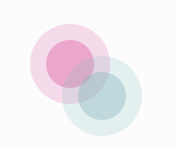
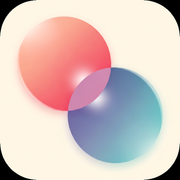
Add native push notifications and deep linking capabilities
Implement native push notification registration and handling for iOS/Android via Capacitor, alongside deep linking configuration for Clerk authentication and invite links.

Replit-Commit-Author: Agent
Replit-Commit-Session-Id: f5ed3eb9-af06-40d8-8ca2-c9c312aa1837
Replit-Commit-Checkpoint-Type: full_checkpoint
Replit-Commit-Event-Id: b6dd6502-5a97-4bbd-8ea1-64d2a8690d60
Replit-Commit-Screenshot-Url: https://storage.googleapis.com/screenshot-production-us-central1/cb549dcf-6132-430c-bd0d-0a8318e29405/f5ed3eb9-af06-40d8-8ca2-c9c312aa1837/G6ctnNT
Replit-Helium-Checkpoint-Created: true

diff --git a/artifacts/twintrack/src/hooks/usePushNotifications.ts b/artifacts/twintrack/src/hooks/usePushNotifications.ts
@@ -1,9 +1,45 @@
 import { useState, useEffect, useCallback } from "react";
 import { useUser } from "@clerk/react";
+import { isNativePlatform } from "@/lib/native";
 
 export type PushPermission = "default" | "granted" | "denied" | "unsupported";
 
 const BASE_URL = (import.meta.env.BASE_URL ?? "/").replace(/\/$/, "");
+
+// ── Native (Capacitor) push ───────────────────────────────────────────────
+
+async function loadCapacitorPush() {
+  try {
+    const { PushNotifications } = await import("@capacitor/push-notifications");
+    return PushNotifications;
+  } catch {
+    return null;
+  }
+}
+
+// ── Web push helpers ──────────────────────────────────────────────────────
+
+function urlBase64ToUint8Array(base64String: string): Uint8Array {
+  const padding = "=".repeat((4 - (base64String.length % 4)) % 4);
+  const base64 = (base64String + padding).replace(/-/g, "+").replace(/_/g, "/");
+  const rawData = window.atob(base64);
+  const outputArray = new Uint8Array(rawData.length);
+  for (let i = 0; i < rawData.length; ++i) {
+    outputArray[i] = rawData.charCodeAt(i);
+  }
+  return outputArray;
+}
+
+function arrayBufferToBase64(buffer: ArrayBuffer): string {
+  const bytes = new Uint8Array(buffer);
+  let binary = "";
+  for (let i = 0; i < bytes.byteLength; i++) {
+    binary += String.fromCharCode(bytes[i]);
+  }
+  return window.btoa(binary);
+}
+
+// ── Hook ─────────────────────────────────────────────────────────────────
 
 export function usePushNotifications() {
   const { user } = useUser();
@@ -12,12 +48,25 @@ export function usePushNotifications() {
   const [loading, setLoading] = useState(false);
 
   useEffect(() => {
+    if (isNativePlatform()) {
+      // On native, check current Capacitor push permission state
+      loadCapacitorPush().then((Push) => {
+        if (!Push) { setPermission("unsupported"); return; }
+        Push.checkPermissions().then((status) => {
+          if (status.receive === "granted") setPermission("granted");
+          else if (status.receive === "denied") setPermission("denied");
+          else setPermission("default");
+        }).catch(() => setPermission("unsupported"));
+      });
+      return;
+    }
+
+    // Web path
     if (!("Notification" in window) || !("serviceWorker" in navigator)) {
       setPermission("unsupported");
       return;
     }
     setPermission(Notification.permission as PushPermission);
-
     navigator.serviceWorker.ready.then((reg) => {
       reg.pushManager.getSubscription().then((sub) => {
         setSubscription(sub);
@@ -26,9 +75,46 @@ export function usePushNotifications() {
   }, []);
 
   const subscribe = useCallback(async (): Promise<boolean> => {
-    if (!user?.id || !("serviceWorker" in navigator)) return false;
+    if (!user?.id) return false;
     setLoading(true);
+
     try {
+      // ── Native path ──────────────────────────────────────────────────
+      if (isNativePlatform()) {
+        const Push = await loadCapacitorPush();
+        if (!Push) return false;
+
+        const { receive } = await Push.requestPermissions();
+        if (receive !== "granted") {
+          setPermission("denied");
+          return false;
+        }
+        setPermission("granted");
+
+        // Register for push — the FCM/APNs token arrives via 'registration' listener
+        await Push.register();
+
+        // Listen for FCM/APNs token and register it server-side
+        const listener = await Push.addListener("registration", async (token) => {
+          await fetch(`${BASE_URL}/api/push/native-subscribe`, {
+            method: "POST",
+            headers: { "Content-Type": "application/json" },
+            body: JSON.stringify({
+              token: token.value,
+              userId: user.id,
+              platform: (window as unknown as { Capacitor?: { getPlatform?: () => string } })
+                .Capacitor?.getPlatform?.() ?? "unknown",
+            }),
+          }).catch(() => {});
+          listener.remove();
+        });
+
+        return true;
+      }
+
+      // ── Web path ─────────────────────────────────────────────────────
+      if (!("serviceWorker" in navigator)) return false;
+
       const perm = await Notification.requestPermission();
       setPermission(perm as PushPermission);
       if (perm !== "granted") return false;
@@ -65,9 +151,15 @@ export function usePushNotifications() {
   }, [user?.id]);
 
   const unsubscribe = useCallback(async (): Promise<void> => {
-    if (!subscription) return;
     setLoading(true);
     try {
+      if (isNativePlatform()) {
+        // For native, there's no simple "unsubscribe" — would need to deregister token server-side
+        // For now, just update UI state
+        setPermission("default");
+        return;
+      }
+      if (!subscription) return;
       await fetch(`${BASE_URL}/api/push/unsubscribe`, {
         method: "POST",
         headers: { "Content-Type": "application/json" },
@@ -85,24 +177,4 @@ export function usePushNotifications() {
   }, []);
 
   return { permission, subscription, loading, subscribe, unsubscribe, sendTest };
-}
-
-function urlBase64ToUint8Array(base64String: string): Uint8Array {
-  const padding = "=".repeat((4 - (base64String.length % 4)) % 4);
-  const base64 = (base64String + padding).replace(/-/g, "+").replace(/_/g, "/");
-  const rawData = window.atob(base64);
-  const outputArray = new Uint8Array(rawData.length);
-  for (let i = 0; i < rawData.length; ++i) {
-    outputArray[i] = rawData.charCodeAt(i);
-  }
-  return outputArray;
-}
-
-function arrayBufferToBase64(buffer: ArrayBuffer): string {
-  const bytes = new Uint8Array(buffer);
-  let binary = "";
-  for (let i = 0; i < bytes.byteLength; i++) {
-    binary += String.fromCharCode(bytes[i]);
-  }
-  return window.btoa(binary);
 }

diff --git a/artifacts/twintrack/src/App.tsx b/artifacts/twintrack/src/App.tsx
@@ -4,6 +4,7 @@ import { ClerkProvider, SignIn, SignUp, Show, useClerk, useUser } from "@clerk/r
 import { publishableKeyFromHost } from "@clerk/react/internal";
 import { shadcn } from "@clerk/themes";
 import { Switch, Route, useLocation, Router as WouterRouter, Redirect } from "wouter";
+import { isNativePlatform } from "@/lib/native";
 import { QueryClient, QueryClientProvider, useQueryClient } from "@tanstack/react-query";
 import { Toaster } from "@/components/ui/toaster";
 import { useToast } from "@/hooks/use-toast";
@@ -161,6 +162,45 @@ function SwUpdateNotifier() {
       })
       .catch(() => {/* non-fatal */});
   }, [promptReload]);
+
+  return null;
+}
+
+/**
+ * Handles Capacitor Universal Links / App Links (deep links).
+ * When the user taps a link like https://yourdomain.com/invite?token=xxx,
+ * iOS/Android opens the app and fires `appUrlOpen` instead of opening Safari.
+ * We parse the path and navigate to the right route in-app.
+ */
+function DeepLinkHandler() {
+  const [, setLocation] = useLocation();
+
+  useEffect(() => {
+    if (!isNativePlatform()) return;
+
+    let cleanup: (() => void) | null = null;
+
+    import("@capacitor/app").then(({ App: CapApp }) => {
+      CapApp.addListener("appUrlOpen", (event) => {
+        try {
+          const url = new URL(event.url);
+          // Strip the base path if present, then navigate to the path + search
+          const path = url.pathname + url.search;
+          const stripped = basePath && path.startsWith(basePath)
+            ? path.slice(basePath.length) || "/"
+            : path;
+          setLocation(stripped);
+          posthog?.capture("deep_link_opened", { path: stripped });
+        } catch {
+          // Malformed URL — ignore
+        }
+      }).then((listener) => {
+        cleanup = () => listener.remove();
+      }).catch(() => {});
+    }).catch(() => {});
+
+    return () => { cleanup?.(); };
+  }, [setLocation]);
 
   return null;
 }
@@ -425,6 +465,7 @@ function ClerkProviderWithRoutes() {
         <PostHogIdentifier />
         <TooltipProvider>
           <SwUpdateNotifier />
+          <DeepLinkHandler />
           <HeartbeatReporter />
           <PushPermissionPrompt />
           <AppExperienceLayer />

diff --git a/artifacts/twintrack/src/components/PushPermissionPrompt.tsx b/artifacts/twintrack/src/components/PushPermissionPrompt.tsx
@@ -1,5 +1,6 @@
 import { useState, useEffect } from "react";
 import { Bell, X } from "lucide-react";
+import { isNativePlatform } from "@/lib/native";
 
 const STORAGE_KEY = "tt_push_asked";
 
@@ -11,12 +12,18 @@ export default function PushPermissionPrompt({ onGrant }: Props) {
   const [visible, setVisible] = useState(false);
 
   useEffect(() => {
-    // Only show if: notifications API exists, not yet granted/denied, not already asked
-    if (!("Notification" in window)) return;
-    if (Notification.permission !== "default") return;
     if (localStorage.getItem(STORAGE_KEY)) return;
 
-    // Show after 30s so user has engaged with the app first
+    if (isNativePlatform()) {
+      // On native, show the prompt after 30s — permission is requested via Capacitor
+      const t = setTimeout(() => setVisible(true), 30000);
+      return () => clearTimeout(t);
+    }
+
+    // Web: only show if Notification API is available and not yet decided
+    if (!("Notification" in window)) return;
+    if (Notification.permission !== "default") return;
+
     const t = setTimeout(() => setVisible(true), 30000);
     return () => clearTimeout(t);
   }, []);
@@ -24,10 +31,20 @@ export default function PushPermissionPrompt({ onGrant }: Props) {
   async function handleAllow() {
     localStorage.setItem(STORAGE_KEY, "1");
     setVisible(false);
+
     try {
-      const result = await Notification.requestPermission();
-      if (result === "granted") {
-        onGrant?.();
+      if (isNativePlatform()) {
+        const { PushNotifications } = await import("@capacitor/push-notifications");
+        const { receive } = await PushNotifications.requestPermissions();
+        if (receive === "granted") {
+          await PushNotifications.register();
+          onGrant?.();
+        }
+      } else {
+        const result = await Notification.requestPermission();
+        if (result === "granted") {
+          onGrant?.();
+        }
       }
     } catch {
       // permission API not available

diff --git a/artifacts/api-server/src/routes/push.ts b/artifacts/api-server/src/routes/push.ts
@@ -213,6 +213,30 @@ export async function sendPushToUser(
   return { sent, failed };
 }
 
+// ── Native push token registration (Capacitor FCM/APNs) ──────────────────
+
+router.post("/push/native-subscribe", async (req, res): Promise<void> => {
+  const { userId } = getAuth(req);
+  if (!userId) { res.status(401).json({ error: "Unauthorized" }); return; }
+
+  const { token, platform } = req.body as { token?: string; platform?: string };
+  if (!token) { res.status(400).json({ error: "token required" }); return; }
+
+  // Store the native push token using the endpoint field as a namespaced key
+  // so it coexists with Web Push subscriptions without a separate table.
+  const endpoint = `native:${platform ?? "unknown"}:${token}`;
+  await db
+    .insert(pushSubscriptionsTable)
+    .values({ userId, endpoint, p256dh: "native", auth: "native", userAgent: platform ?? "native" })
+    .onConflictDoUpdate({
+      target: pushSubscriptionsTable.endpoint,
+      set: { userId, updatedAt: new Date() },
+    });
+
+  req.log.info({ userId, platform }, "native push token registered");
+  res.status(201).json({ ok: true });
+});
+
 // ── Admin: send test notification ─────────────────────────────────────────
 
 router.post("/push/send-test", async (req, res): Promise<void> => {

diff --git a/artifacts/twintrack/src/lib/native.ts b/artifacts/twintrack/src/lib/native.ts
@@ -1,0 +1,24 @@
+/**
+ * Capacitor native platform detection.
+ * Use this to branch between web and native behaviour without importing
+ * the full @capacitor/core package in every file.
+ */
+
+type CapacitorGlobal = {
+  isNativePlatform?: () => boolean;
+  getPlatform?: () => "ios" | "android" | "web";
+};
+
+function cap(): CapacitorGlobal | undefined {
+  return (window as unknown as { Capacitor?: CapacitorGlobal }).Capacitor;
+}
+
+/** True when running inside a Capacitor iOS or Android container. */
+export function isNativePlatform(): boolean {
+  return !!cap()?.isNativePlatform?.();
+}
+
+/** "ios" | "android" | "web" */
+export function getNativePlatform(): "ios" | "android" | "web" {
+  return cap()?.getPlatform?.() ?? "web";
+}

diff --git a/artifacts/twintrack/capacitor.config.ts b/artifacts/twintrack/capacitor.config.ts
@@ -16,7 +16,7 @@ const config: CapacitorConfig = {
     backgroundColor: "#fdf8fa",
     preferredContentMode: "mobile",
     scrollEnabled: false,
-    // limitsNavigationsToAppBoundDomains: true,
+    limitsNavigationsToAppBoundDomains: true,
   },
 
   android: {

diff --git a/artifacts/twintrack/vite.config.ts b/artifacts/twintrack/vite.config.ts
@@ -56,7 +56,7 @@ export default defineConfig({
         // so the React app loads and handles routing — not the offline page.
         // offline.html is only shown by the OfflineBanner inside the React app.
         navigateFallback: "/index.html",
-        navigateFallbackDenylist: [/^\/api\//, /^\/__/, /\/offline\.html$/],
+        navigateFallbackDenylist: [/^\/api\//, /^\/__/, /\/offline\.html$/, /^capacitor:\/\//],
         globPatterns: ["**/*.{js,css,html,ico,png,svg,woff2}"],
         importScripts: ["sw-push.js"],
         runtimeCaching: [